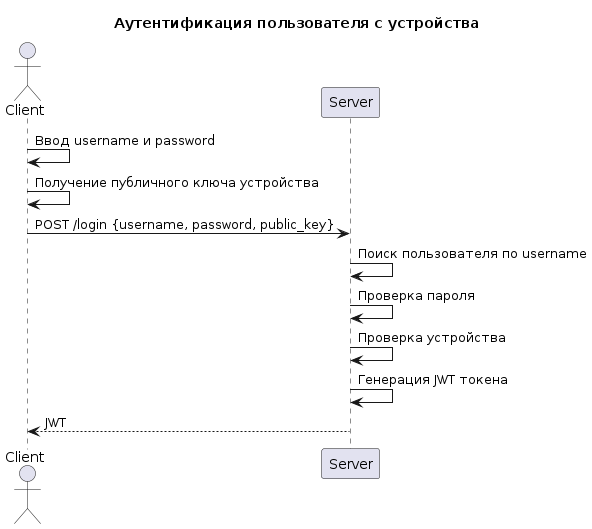
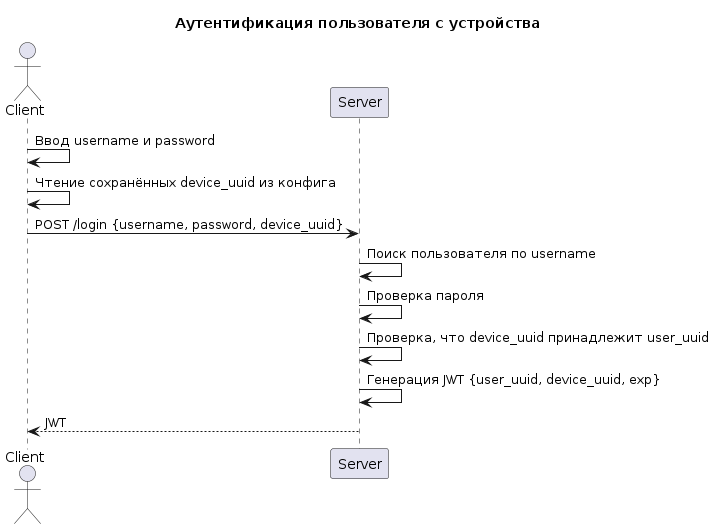
Updated register, device, login diagrams

diff --git a/README.md b/README.md
@@ -5,9 +5,9 @@
 
 ![Регистрация](docs/register.png)
 
-## Вход в аккаунт
+## Добавление устройтсва
 
-![Вход в аккаунт](docs/login.png)
+![Добавление устройтсва](docs/device.png)
 
 ## Вход в аккаунт
 
